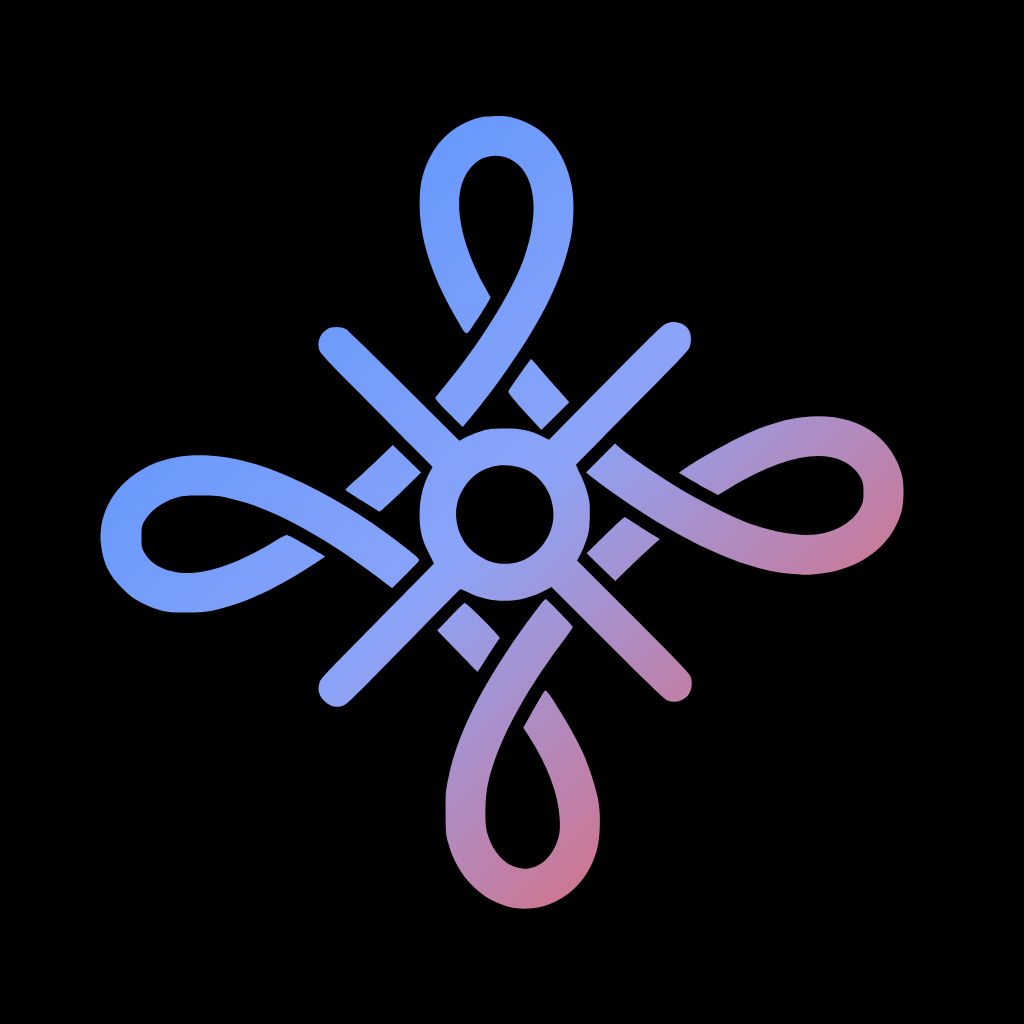
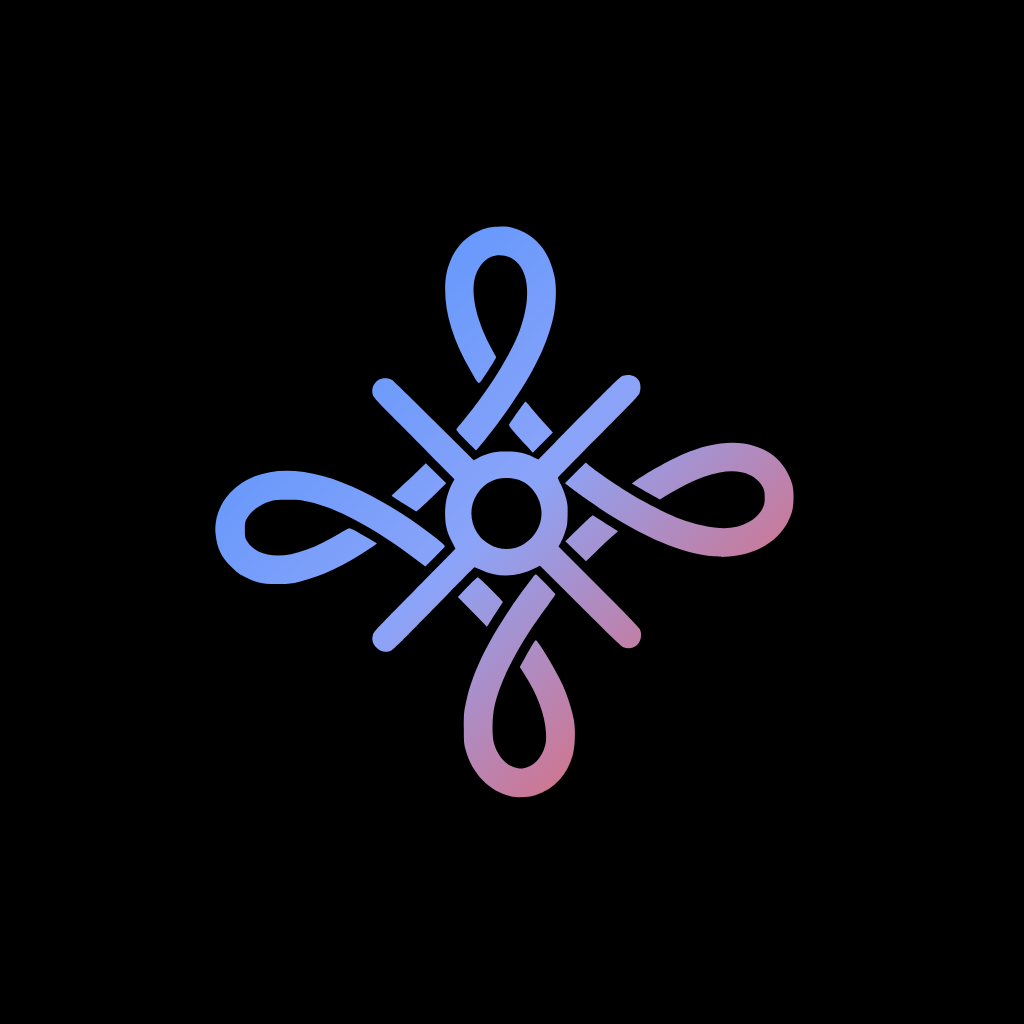
fixed the chat hinstory issue and model ram size

Changed region(s): [[0.0938, 0.0938, 0.9062, 0.9062]]

diff --git a/export-icon.html b/export-icon.html
@@ -54,7 +54,8 @@
           </linearGradient>
         </defs>
         <rect width="1024" height="1024" fill="#000000"/>
-        <g transform="translate(0, 0) scale(1)">
+        <!-- Scale to 72% and center: offset = 1024*(1-0.72)/2 = 143.36 -->
+        <g transform="translate(143, 143) scale(0.72)">
           <path d="M 342.50 705.88 C335.14,707.92 330.04,706.48 324.08,700.70 C318.86,695.63 317.24,689.40 319.50,683.01 C321.26,678.01 322.08,677.13 376.96,621.48 C395.96,602.22 416.55,581.29 422.73,574.98 L 433.95 563.50 L 428.59 552.81 C421.69,539.04 419.59,530.13 419.58,514.50 C419.57,498.37 423.28,483.54 430.51,470.80 L 432.61 467.09 L 412.58 446.80 C401.57,435.63 376.27,410.08 356.36,390.00 C324.74,358.11 320.03,352.96 319.04,349.24 C317.01,341.54 320.02,333.93 326.92,329.27 C331.51,326.18 341.00,326.09 345.92,329.09 C347.80,330.24 374.08,355.84 404.33,385.98 L 459.32 440.79 L 465.41 437.45 C468.76,435.62 475.55,432.90 480.50,431.41 C488.46,429.02 491.23,428.70 504.50,428.62 C521.37,428.52 529.64,430.22 542.32,436.38 L 549.05 439.64 L 570.34 418.07 C659.53,327.73 662.22,325.08 666.62,323.40 C675.67,319.95 686.33,323.75 689.61,331.60 C691.44,336.00 691.38,343.16 689.46,347.76 C688.45,350.17 677.72,361.73 658.61,380.98 C642.50,397.21 617.50,422.51 603.05,437.19 C588.61,451.87 576.53,464.13 576.22,464.45 C575.91,464.76 577.77,469.17 580.36,474.26 C583.09,479.63 586.13,487.69 587.61,493.50 C589.88,502.45 590.11,504.97 589.74,517.50 C589.37,530.16 589.02,532.41 586.04,540.99 C584.23,546.21 581.46,552.75 579.90,555.52 L 577.06 560.56 L 632.63 616.03 C670.09,653.42 688.82,672.80 690.08,675.50 C693.22,682.20 692.01,691.02 687.21,696.32 C682.47,701.56 674.08,703.30 667.22,700.46 C664.65,699.39 646.20,681.64 607.48,642.95 L 551.46 586.99 L 544.98 590.42 C520.36,603.47 492.23,604.19 468.35,592.39 C464.36,590.42 460.73,588.96 460.29,589.15 C459.86,589.34 443.00,606.38 422.84,627.00 C348.26,703.29 346.85,704.68 342.50,705.88 ZM 216.24 609.64 C207.73,611.65 202.18,612.25 189.50,612.54 C167.08,613.06 157.98,611.13 140.50,602.18 C133.26,598.48 129.74,595.80 122.50,588.54 C108.98,574.96 103.28,563.55 101.13,545.72 C96.86,510.45 118.23,477.86 155.36,462.99 C193.77,447.61 247.11,455.04 304.50,483.75 C343.35,503.18 375.68,523.76 408.24,549.78 C417.89,557.50 419.81,559.46 419.03,560.83 C418.51,561.75 412.23,568.28 405.09,575.35 L 392.09 588.20 L 377.79 577.26 C350.90,556.67 320.73,537.20 294.00,523.19 C270.17,510.70 250.31,503.00 230.00,498.38 C218.95,495.87 215.53,495.54 200.50,495.52 C185.49,495.50 182.62,495.77 176.00,497.82 C161.79,502.22 149.49,511.51 143.84,522.11 C141.81,525.91 141.50,527.90 141.50,537.00 C141.50,546.73 141.71,547.89 144.42,552.77 C151.41,565.38 167.51,573.00 187.19,573.00 C210.17,573.00 240.76,562.00 273.50,541.96 C279.75,538.13 285.61,535.00 286.52,535.00 C287.43,535.00 291.17,536.65 294.84,538.67 C304.84,544.18 325.00,556.03 325.00,556.41 C325.00,556.59 321.96,558.76 318.25,561.23 C278.93,587.40 247.67,602.23 216.24,609.64 ZM 817.50 573.97 C811.45,574.54 805.83,574.93 805.00,574.85 C804.17,574.78 798.78,574.37 793.00,573.94 C749.85,570.79 695.24,547.75 633.00,506.44 C619.34,497.38 595.43,480.28 589.68,475.46 L 586.05 472.42 L 600.50 458.00 L 614.95 443.58 L 617.72 446.12 C626.11,453.79 658.96,476.28 681.50,489.79 C698.44,499.93 730.86,516.23 745.44,521.93 C765.03,529.59 790.69,535.00 807.44,535.00 C831.04,535.00 852.75,523.61 860.80,507.00 C863.08,502.30 863.47,500.19 863.48,492.50 C863.50,484.67 863.14,482.77 860.73,477.86 C857.28,470.84 850.74,464.71 842.68,460.94 C817.52,449.16 778.44,458.50 729.71,487.94 L 717.92 495.06 L 709.21 490.34 C704.42,487.75 695.64,482.75 689.70,479.24 L 678.89 472.86 L 682.83 470.01 C697.37,459.47 729.33,441.50 749.24,432.66 C799.25,410.46 844.60,410.81 874.95,433.63 C887.25,442.87 897.47,458.29 901.71,474.00 C904.42,484.04 904.15,503.26 901.15,513.00 C890.65,547.14 859.19,570.07 817.50,573.97 ZM 471.69 416.25 C466.75,422.16 462.66,427.00 462.59,427.00 C462.53,427.00 456.23,420.74 448.59,413.09 C440.06,404.55 434.93,398.67 435.28,397.84 C435.59,397.10 439.72,391.83 444.47,386.13 C479.34,344.19 510.91,293.63 523.43,259.65 C541.07,211.77 535.46,171.12 509.52,158.85 C501.45,155.03 490.70,154.83 482.78,158.34 C472.37,162.95 463.71,174.81 460.61,188.70 C455.25,212.67 464.20,249.35 484.33,285.97 L 490.64 297.45 L 487.25 303.47 C485.39,306.79 479.99,315.28 475.25,322.34 C470.61,329.27 468.61,333.19 466.57,333.21 C464.60,333.23 462.58,329.63 458.10,321.62 C457.11,319.86 456.00,317.89 454.75,315.69 C430.79,273.62 419.47,237.29 419.61,203.00 C419.68,187.60 421.41,177.66 426.16,165.50 C434.69,143.66 450.54,127.81 471.71,119.96 C479.44,117.09 482.01,116.64 493.02,116.24 C503.80,115.84 506.72,116.09 514.02,118.04 C544.23,126.08 564.61,150.01 571.65,185.69 C574.45,199.86 574.01,222.19 570.61,238.45 C562.29,278.31 543.20,317.88 508.10,368.00 C495.01,386.70 482.28,403.57 471.69,416.25 ZM 545.87 905.57 C536.63,908.76 520.60,909.70 511.50,907.59 C481.03,900.55 457.19,876.24 448.20,843.06 C445.79,834.17 445.61,832.00 445.60,812.00 C445.60,791.52 445.75,789.80 448.80,775.88 C457.33,736.87 476.02,697.42 510.08,646.50 C515.97,637.70 524.55,625.54 529.14,619.47 C533.74,613.40 539.08,606.33 541.00,603.76 C542.92,601.18 545.02,599.06 545.65,599.04 C546.74,599.00 572.19,625.11 572.79,626.89 C572.95,627.36 568.05,634.45 561.90,642.63 C522.21,695.40 496.18,745.18 487.87,784.18 C484.93,797.96 484.62,823.19 487.27,833.00 C490.64,845.47 497.08,855.41 506.35,862.44 C511.35,866.24 521.67,869.30 527.25,868.65 C541.88,866.94 553.85,854.80 558.54,836.92 C559.85,831.93 560.11,827.93 559.69,819.00 C558.55,794.57 547.75,765.71 528.67,736.11 L 523.27 727.73 L 530.96 714.11 C541.92,694.70 544.38,690.73 545.51,690.61 C548.31,690.30 574.45,733.67 582.94,752.71 C589.53,767.47 596.48,789.39 598.55,801.88 C600.85,815.78 600.14,837.94 597.03,849.50 C589.70,876.78 571.47,896.76 545.87,905.57 ZM 493.50 562.59 C500.48,564.32 509.53,564.27 516.47,562.47 C539.91,556.36 556.35,532.10 553.06,508.44 C551.76,499.12 549.40,492.95 544.20,485.29 C536.59,474.09 525.81,467.53 512.04,465.71 C489.27,462.70 470.59,472.94 460.45,494.00 C452.38,510.76 455.79,532.84 468.73,547.59 C474.13,553.74 485.44,560.59 493.50,562.59 ZM 404.22 489.11 C394.90,498.19 385.52,506.99 383.38,508.66 L 379.50 511.71 L 362.30 501.10 C352.85,495.27 345.20,490.20 345.30,489.82 C345.41,489.45 350.67,484.50 357.00,478.83 C363.33,473.16 373.97,463.20 380.65,456.71 L 392.81 444.90 L 421.18 472.60 ZM 650.70 547.26 C645.64,551.76 635.60,561.20 628.40,568.25 L 615.29 581.06 L 600.96 567.13 L 586.62 553.20 L 602.56 537.53 C611.33,528.91 619.92,520.75 621.65,519.39 L 624.79 516.92 L 636.15 524.26 C642.39,528.30 650.29,533.29 653.70,535.34 L 659.89 539.08 ZM 483.60 662.75 C480.38,667.84 477.69,671.97 477.62,671.93 C477.55,671.89 468.45,662.56 457.38,651.18 L 437.26 630.50 L 450.38 616.73 C457.60,609.15 464.09,602.97 464.82,602.98 C466.33,603.00 485.37,621.30 494.05,631.07 L 499.88 637.64 L 494.67 645.57 C491.80,649.93 486.82,657.66 483.60,662.75 ZM 557.39 388.85 L 569.27 402.22 L 541.38 430.11 L 532.41 420.31 C513.51,399.65 507.86,392.81 508.43,391.33 C509.31,389.04 530.42,359.03 531.16,359.02 C531.53,359.01 534.90,362.71 538.66,367.24 C542.42,371.78 550.85,381.50 557.39,388.85 Z"
             fill="url(#geminiGradient)"
           />

diff --git a/src/context/ModelContext.js b/src/context/ModelContext.js
@@ -86,7 +86,7 @@ export const DOWNLOADABLE_MODELS = [
     id: 'gemma-3n-e2b-it',
     name: 'Gemma 3n E2B (Q8_0)',
     size: '4.46 GB',
-    ramRequired: '6 GB',
+    ramRequired: '8 GB',
     downloadUrl: 'https://huggingface.co/ggml-org/gemma-3n-E2B-it-GGUF/resolve/main/gemma-3n-E2B-it-Q8_0.gguf',
     filename: 'gemma-3n-E2B-it-Q8_0.gguf',
   },
@@ -94,7 +94,7 @@ export const DOWNLOADABLE_MODELS = [
     id: 'gemma-3n-e4b-it',
     name: 'Gemma 3n E4B (Q4_K_M)',
     size: '4.23 GB',
-    ramRequired: '6 GB',
+    ramRequired: '8 GB',
     downloadUrl: 'https://huggingface.co/unsloth/gemma-3n-E4B-it-GGUF/resolve/main/gemma-3n-E4B-it-Q4_K_M.gguf',
     filename: 'gemma-3n-E4B-it-Q4_K_M.gguf',
   },
@@ -102,7 +102,7 @@ export const DOWNLOADABLE_MODELS = [
     id: 'gemma-4-e2b-it',
     name: 'Gemma 4 E2B (Q6_K)',
     size: '4.19 GB',
-    ramRequired: '6 GB',
+    ramRequired: '8 GB',
     downloadUrl: 'https://huggingface.co/unsloth/gemma-4-E2B-it-GGUF/resolve/main/gemma-4-E2B-it-Q6_K.gguf',
     filename: 'gemma-4-E2B-it-Q6_K.gguf',
   },
@@ -110,7 +110,7 @@ export const DOWNLOADABLE_MODELS = [
     id: 'gemma-4-e4b-it',
     name: 'Gemma 4 E4B (Q4_K_M)',
     size: '4.64 GB',
-    ramRequired: '6 GB',
+    ramRequired: '12 GB',
     downloadUrl: 'https://huggingface.co/unsloth/gemma-4-E4B-it-GGUF/resolve/main/gemma-4-E4B-it-Q4_K_M.gguf',
     filename: 'gemma-4-E4B-it-Q4_K_M.gguf',
   },

diff --git a/src/context/ChatContext.js b/src/context/ChatContext.js
@@ -242,8 +242,10 @@ export function ChatProvider({ children }) {
     if (!content.trim()) return;
 
     let conversation = currentConversation;
+    let isNewConversation = false;
     if (!conversation) {
-      conversation = await createNewConversation(content.slice(0, 30) + '...');
+      conversation = await createNewConversation(content.slice(0, 30) + (content.length > 30 ? '...' : ''));
+      isNewConversation = true;
     }
 
     const userMessage = {
@@ -261,8 +263,8 @@ export function ChatProvider({ children }) {
       await saveMessages(conversation.id, newMessages);
     }
 
-    // Update conversation title if first message
-    if (messages.length === 0 && !conversation.isIncognito) {
+    // Update conversation title if first message (but NOT if conversation was just created — it already has the title)
+    if (messages.length === 0 && !conversation.isIncognito && !isNewConversation) {
       const title = content.slice(0, 30) + (content.length > 30 ? '...' : '');
       await updateConversationTitle(conversation.id, title);
     }
